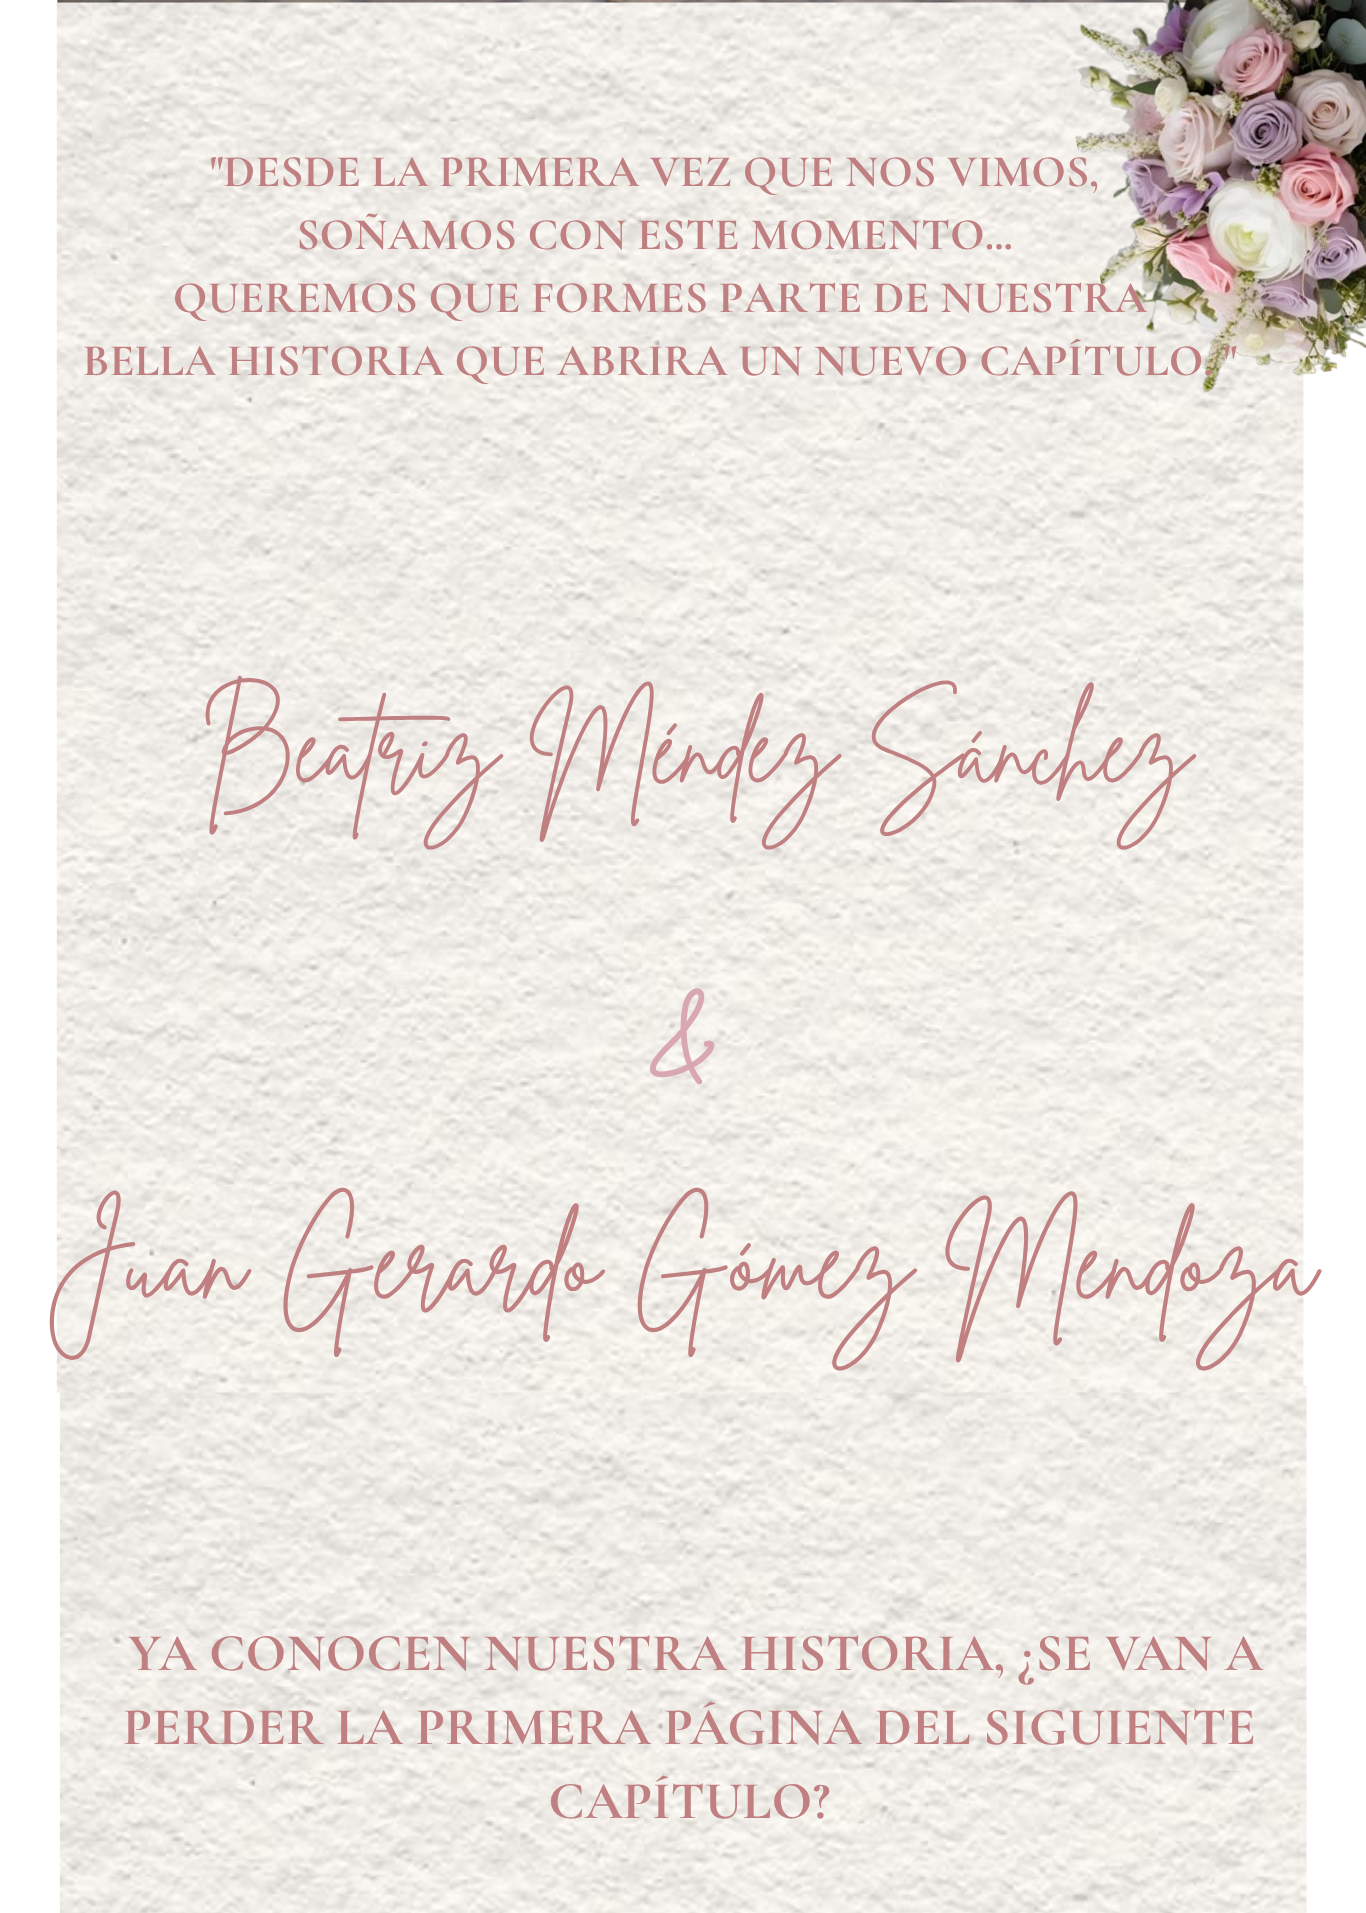
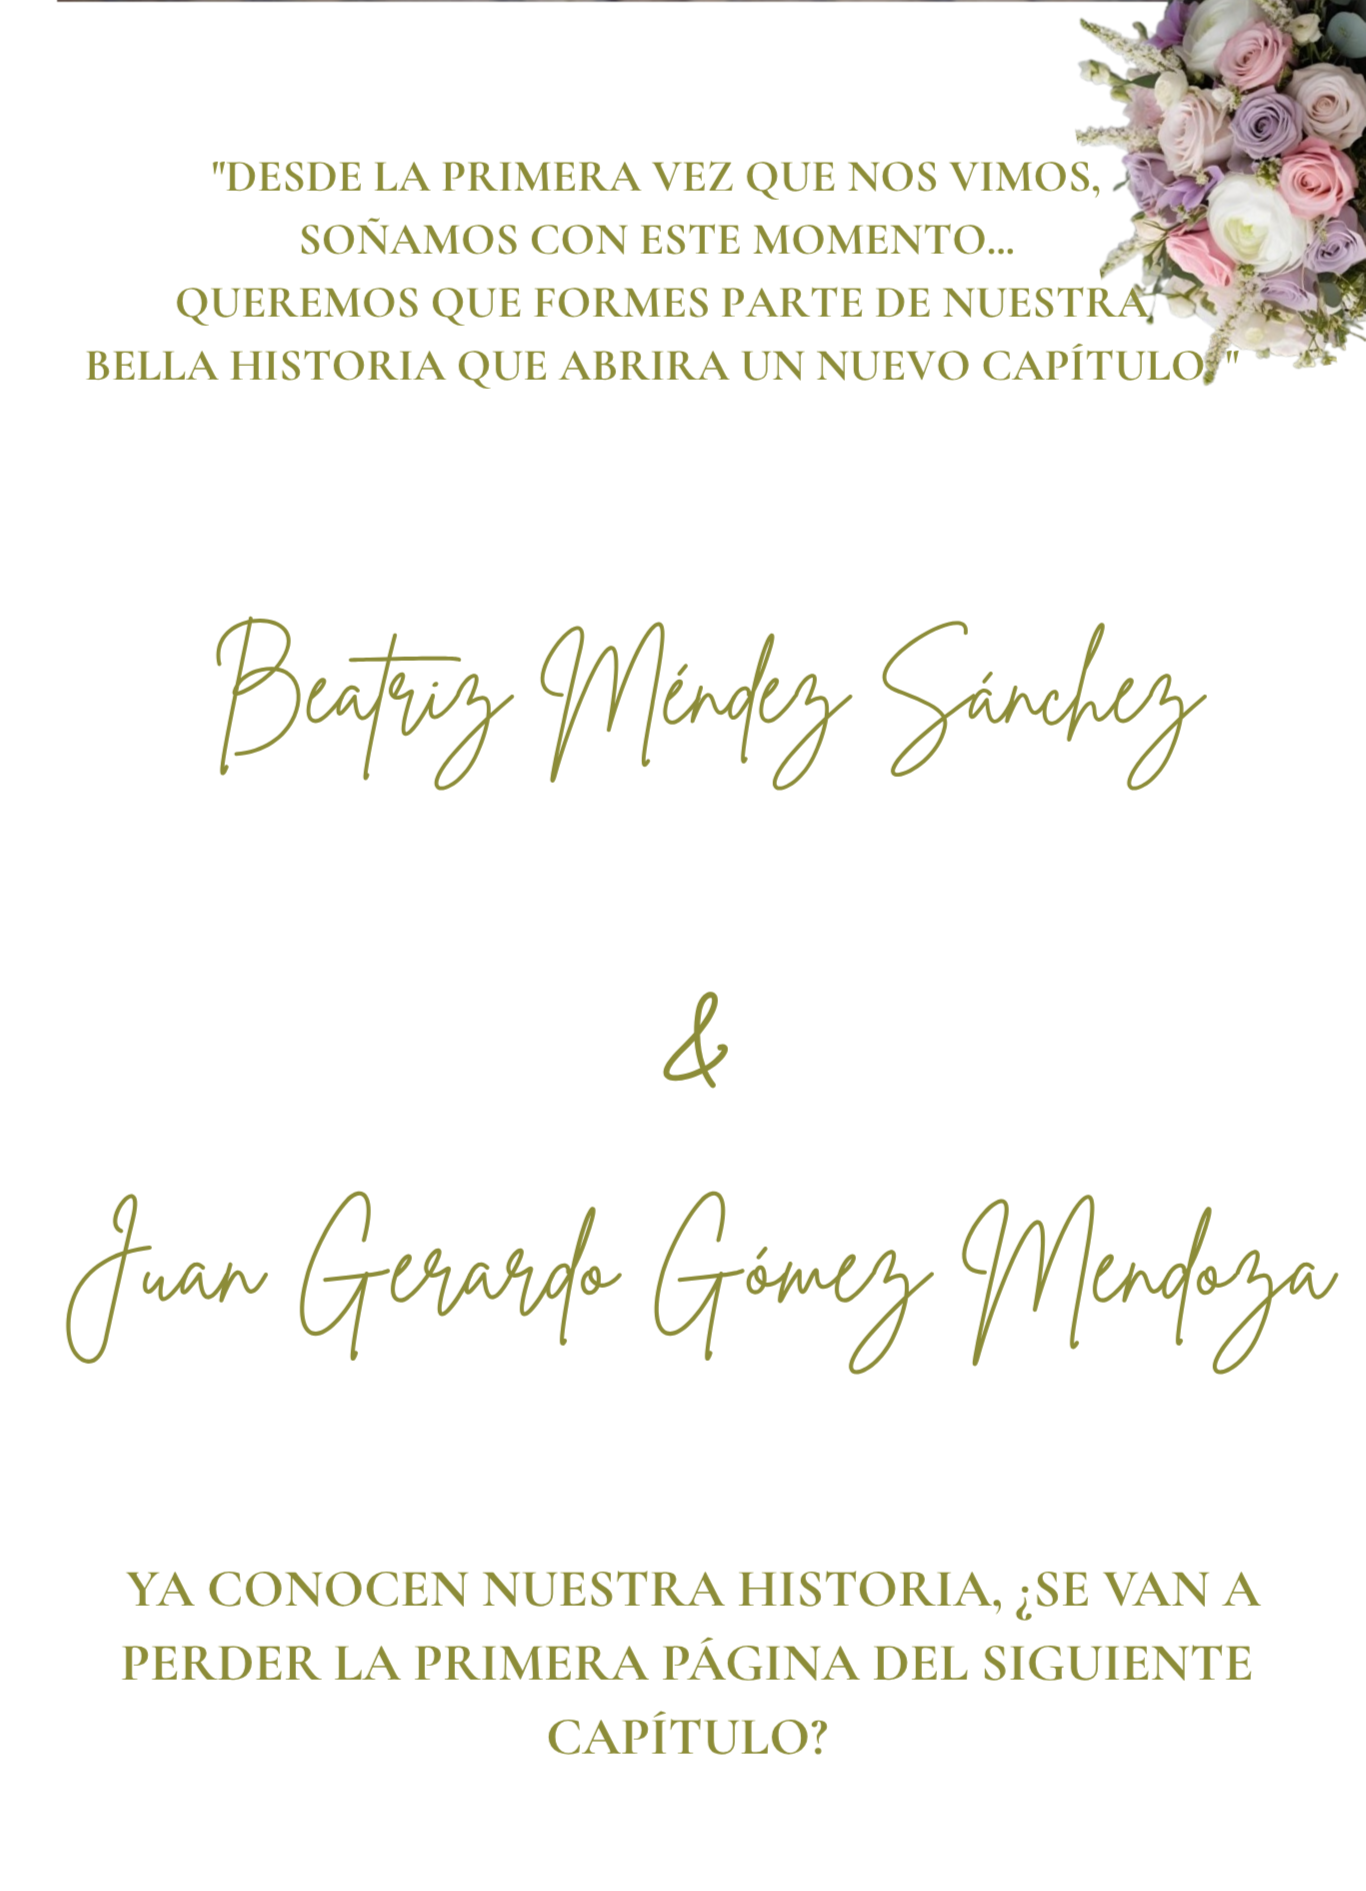
Actualizacion color y maps

diff --git a/index.html b/index.html
@@ -1,11 +1,13 @@
 <!DOCTYPE html>
 <html lang="es">
+
 <head>
     <meta charset="UTF-8">
     <meta name="viewport" content="width=device-width, initial-scale=1.0">
     <title>Beatriz & Gerardo - Nuestra Boda</title>
     <link rel="stylesheet" href="style.css">
 </head>
+
 <body>
 
     <div id="pantalla-sobre" class="full-screen">
@@ -17,7 +19,7 @@
 
     <div id="pantalla-invitacion" class="full-screen hidden">
         <div class="scroll-container">
-            
+
             <audio id="musicaBoda" loop>
                 <source src="musica_boda.mp3" type="audio/mpeg">
             </audio>
@@ -85,8 +87,12 @@
 
             <section class="seccion reveal seccion-ubicacion">
                 <img src="parte_5_fondo_original.png" class="img-invitacion">
-                <a href="https://maps.google.com/..." target="_blank" class="area-clic btn-iglesia"></a>
-                <a href="https://maps.google.com/..." target="_blank" class="area-clic btn-salon"></a>
+
+                <a href="https://www.google.com/maps/search/?api=1&query=Parroquia+de+la+Se%C3%B1ora+de+la+Asunci%C3%B3n+Misantla+Veracruz"
+                    target="_blank" class="area-clic btn-iglesia"></a>
+
+                <a href="https://www.google.com/maps/search/?api=1&query=Salon+Camino+Real+Misantla+Veracruz"
+                    target="_blank" class="area-clic btn-salon"></a>
             </section>
 
             <section class="seccion reveal"><img src="parte_6_fondo_original.png" class="img-invitacion"></section>
@@ -95,9 +101,8 @@
 
             <section class="seccion reveal seccion-confirmar">
                 <img src="parte_9_fondo_original.png" class="img-invitacion">
-<a href="https://wa.me/522351150771?text=%C2%A1Hola!%20Confirmo%20mi%20asistencia" 
-target="_blank" 
-class="btn-confirmar"></a>
+                <a href="https://wa.me/522351150771?text=%C2%A1Hola!%20Confirmo%20mi%20asistencia" target="_blank"
+                    class="btn-confirmar"></a>
             </section>
 
         </div>
@@ -105,4 +110,5 @@ class="btn-confirmar"></a>
 
     <script src="script.js"></script>
 </body>
+
 </html>
